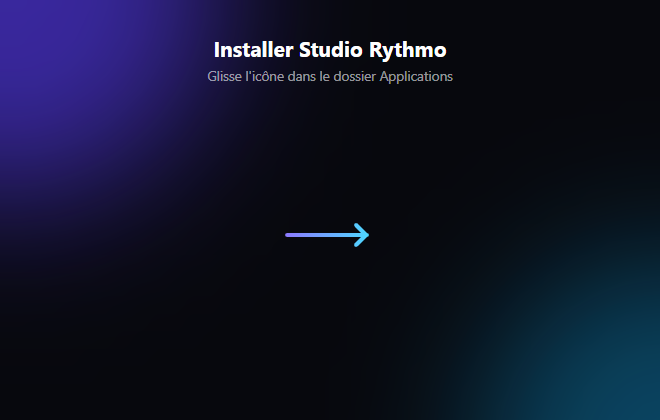
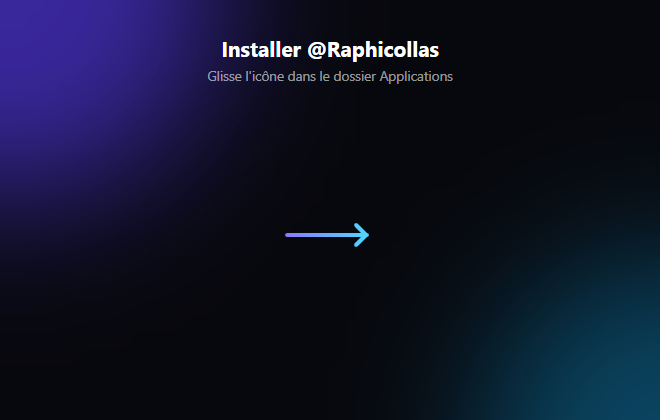
L'appli s'appelle @Raphicollas
Nom affiché partout (menu, fenêtre, présentation, installateurs, fond
« Photo @Raphicollas »), DMG Raphicollas-Mac.dmg. Nom entre guillemets dans
le workflow (une valeur YAML ne peut pas commencer par « @ »). Les dossiers
de données gardent leur nom : rien à réinstaller.

Claude-Session: https://claude.ai/code/session_01S9e5F9UWUUD9CYD4chYH6B

Changed region(s): [[0.303, 0.0929, 0.697, 0.1548]]

diff --git a/launcher/setup.html b/launcher/setup.html
@@ -2,7 +2,7 @@
 <html lang="fr">
 <head>
 <meta charset="utf-8">
-<title>Installer Studio Rythmo</title>
+<title>Installer @Raphicollas</title>
 <style>
   :root { --text:#f3f4f8; --muted:rgba(243,244,248,.62); --faint:rgba(243,244,248,.36); --line:rgba(255,255,255,.12);
     --accent:#8b7bff; --accent2:#4fd6ff; --ok:#4ade9a; --bad:#ff6b81; }
@@ -82,7 +82,7 @@
 <div class="wrap">
   <div class="brand">
     <svg viewBox="0 0 64 64"><defs><linearGradient id="g" x1="0" y1="0" x2="1" y2="1"><stop offset="0" stop-color="#b4a9ff"/><stop offset=".5" stop-color="#8b7bff"/><stop offset="1" stop-color="#4fd6ff"/></linearGradient></defs><rect width="64" height="64" rx="16" fill="#0d0e16"/><rect x="1" y="1" width="62" height="62" rx="15" fill="none" stroke="url(#g)" stroke-opacity=".5" stroke-width="2"/><g fill="url(#g)"><rect x="13" y="26" width="5" height="12" rx="2.5"/><rect x="21" y="19" width="5" height="26" rx="2.5"/><rect x="29" y="23" width="5" height="18" rx="2.5"/></g><path d="M39 22l13 10-13 10z" fill="url(#g)"/></svg>
-    <span id="brand-text">Installation de Studio Rythmo</span>
+    <span id="brand-text">Installation de @Raphicollas</span>
     <div class="dots" id="dots"><i class="on"></i><i></i><i></i><i></i></div>
   </div>
 
@@ -137,15 +137,15 @@
   <!-- 4. Terminé -->
   <section class="page" id="p-done">
     <div class="check"><svg viewBox="0 0 24 24" fill="none" stroke="#4ade9a" stroke-width="2.5" stroke-linecap="round" stroke-linejoin="round"><path d="M5 12.5l4.5 4.5L19 7.5"/></svg></div>
-    <h1 style="margin-top:18px">Studio Rythmo est installé</h1>
+    <h1 style="margin-top:18px">@Raphicollas est installé</h1>
     <p class="lede">Retrouve-le sur le Bureau et dans le menu Démarrer.</p>
     <div class="bar"><span class="sp"></span><button class="link" data-act="close">Fermer</button>
-      <button class="primary" data-act="launch">Lancer Studio Rythmo</button></div>
+      <button class="primary" data-act="launch">Lancer @Raphicollas</button></div>
   </section>
 
   <!-- Désinstallation -->
   <section class="page" id="p-uninstall">
-    <h1>Désinstaller Studio Rythmo ?</h1>
+    <h1>Désinstaller @Raphicollas ?</h1>
     <p class="lede">L'application, ses raccourcis et le moteur seront retirés de cet ordinateur.</p>
     <div class="card">
       <label class="toggle"><span>Supprimer aussi mes vidéos et mes réglages<small>Studio, bibliothèque, prises de voix</small></span>
@@ -157,7 +157,7 @@
   </section>
   <section class="page" id="p-uninstalled">
     <div class="check"><svg viewBox="0 0 24 24" fill="none" stroke="#4ade9a" stroke-width="2.5" stroke-linecap="round" stroke-linejoin="round"><path d="M5 12.5l4.5 4.5L19 7.5"/></svg></div>
-    <h1 style="margin-top:18px">Studio Rythmo a été désinstallé</h1>
+    <h1 style="margin-top:18px">@Raphicollas a été désinstallé</h1>
     <p class="lede" id="kept"></p>
     <div class="bar"><span class="sp"></span><button class="primary" data-act="close">Fermer</button></div>
   </section>
@@ -182,7 +182,7 @@
   window.init = (info) => {
     $("#dir").textContent = info.dir;
     $("#version").textContent = "Version " + info.version;
-    if (info.uninstall) { $("#brand-text").textContent = "Studio Rythmo"; go("p-uninstall"); }
+    if (info.uninstall) { $("#brand-text").textContent = "@Raphicollas"; go("p-uninstall"); }
   };
   window.setDir = (dir) => { $("#dir").textContent = dir; };
   window.setStep = (label) => { $("#now").textContent = label; const i = STEPS.indexOf(label); if (i > reached) { reached = i; steps(); } };

diff --git a/web/index.html b/web/index.html
@@ -6,8 +6,8 @@
 <meta name="theme-color" content="#07080d">
 <meta name="apple-mobile-web-app-capable" content="yes">
 <meta name="apple-mobile-web-app-status-bar-style" content="black-translucent">
-<meta name="apple-mobile-web-app-title" content="Studio Rythmo">
-<title>Studio Rythmo</title>
+<meta name="apple-mobile-web-app-title" content="@Raphicollas">
+<title>@Raphicollas</title>
 <link rel="manifest" href="/manifest.webmanifest">
 <link rel="icon" href="/icon.svg">
 <link rel="apple-touch-icon" href="/icon.svg">
@@ -20,7 +20,7 @@
 
 <div class="app">
   <header class="top">
-    <div class="brand"><img src="/icon.svg" alt="">Studio Rythmo</div>
+    <div class="brand"><img src="/icon.svg" alt="">@Raphicollas</div>
     <div class="top-right">
       <button class="btn small primary hidden" id="upd-go">Mettre à jour</button>
       <span class="pill" id="sys"><span class="dot"></span>Connexion…</span>
@@ -164,7 +164,7 @@
           <div class="screen"><video id="st-video" playsinline preload="auto"></video>
             <div class="countdown hidden" id="st-cd"><b></b><div class="cd-bar"><i></i></div></div>
             <div class="intro hidden" id="st-intro">
-              <div class="intro-logo"><img src="/icon.svg" alt=""><strong>Studio Rythmo</strong><span>Doublage</span></div>
+              <div class="intro-logo"><img src="/icon.svg" alt=""><strong>@Raphicollas</strong><span>Doublage</span></div>
               <div class="intro-cast hidden"><h2></h2><div class="cast"></div></div>
             </div>
             <div class="rec-dot hidden" id="st-rec"><i></i>REC</div>
@@ -294,7 +294,7 @@
     <div class="glass card">
       <h2>Fond d'écran</h2>
       <label class="field"><span>Fond</span><select id="bg-mode">
-        <option value="aurora">Dégradé de couleurs</option><option value="studio">Photo Studio Rythmo</option><option value="photo">Ma photo</option></select></label>
+        <option value="aurora">Dégradé de couleurs</option><option value="studio">Photo @Raphicollas</option><option value="photo">Ma photo</option></select></label>
       <div class="bg-row"><div class="bg-preview" id="bg-preview"></div>
         <div class="btns"><label class="btn small">Choisir une photo<input type="file" id="bg-file" accept="image/*" hidden></label>
         <button class="btn small ghost" id="bg-remove">Retirer</button></div></div>
@@ -326,7 +326,7 @@
 </div>
 
 <nav class="tabs glass">
-  <div class="nav-brand"><img src="/icon.svg" alt="">Studio Rythmo</div>
+  <div class="nav-brand"><img src="/icon.svg" alt="">@Raphicollas</div>
   <button class="on" data-view="v-dub"><svg viewBox="0 0 24 24" fill="none" stroke="currentColor" stroke-width="1.8" stroke-linecap="round"><path d="M12 3v18M7 8v8M17 6v12M2 11v2M22 10v4"/></svg>Doubler</button>
   <button data-view="v-studio"><svg viewBox="0 0 24 24" fill="none" stroke="currentColor" stroke-width="1.8" stroke-linecap="round"><rect x="9" y="3" width="6" height="11" rx="3"/><path d="M5 11a7 7 0 0014 0M12 18v3"/></svg>Studio</button>
   <button data-view="v-lib"><svg viewBox="0 0 24 24" fill="none" stroke="currentColor" stroke-width="1.8" stroke-linejoin="round"><rect x="3" y="4" width="18" height="16" rx="3"/><path d="M10 9.5v5l4-2.5z" fill="currentColor"/></svg>Bibliothèque</button>

diff --git a/web/setup.js b/web/setup.js
@@ -91,7 +91,7 @@
       <label class="toggle" style="margin-top:8px"><span>Accès depuis partout<small>4G, travail… via un tunnel Cloudflare gratuit et sécurisé</small></span>
         <span class="switch"><input type="checkbox" data-act="remote" ${setup.remote_access ? "checked" : ""}><i></i></span></label>
       ${setup.remote_access ? (t.url ? `<div class="qr" data-qr="remote"></div><div class="url">${t.url}</div>
-          <p class="hint" style="text-align:center;margin-top:4px">L'adresse change à chaque démarrage de Studio Rythmo.</p>`
+          <p class="hint" style="text-align:center;margin-top:4px">L'adresse change à chaque démarrage de @Raphicollas.</p>`
         : `<div class="status"><span class="dot warn"></span>${t.error ? esc(t.error) : (t.status || "Ouverture…")}</div>`) : ""}
       ${setup.password ? `<div class="sub" style="text-align:center"><small style="color:var(--muted)">Mot de passe à entrer sur le téléphone</small><div class="url" style="font-size:17px">${esc(setup.password)}</div></div>` : ""}
       <p class="hint" style="margin-top:10px">Astuce : sur le téléphone, « Partager → Sur l'écran d'accueil » pour l'avoir comme une appli.</p>`;
@@ -111,7 +111,7 @@
   const STEPS = [
     (b) => {
       b.innerHTML = `<h1>Bienvenue 👋</h1>
-        <p class="lede">Studio Rythmo traduit et double tes vidéos, depuis ce PC ou ton téléphone. Trois réglages rapides et c'est prêt.</p>
+        <p class="lede">@Raphicollas traduit et double tes vidéos, depuis ce PC ou ton téléphone. Trois réglages rapides et c'est prêt.</p>
         <div class="choices">
           <div class="choice"><span class="ic">🎬</span><span><b>Une vidéo ou un lien YouTube</b><small>Tu choisis la langue, l'appli fait le reste.</small></span></div>
           <div class="choice"><span class="ic">🎙</span><span><b>Nouvelle voix + sous-titres</b><small>La musique d'origine est gardée.</small></span></div>

diff --git a/web/app.js b/web/app.js
@@ -534,13 +534,13 @@ async function applyUpdate() {
     let r = null;
     try { r = await fetch("/api/update", { cache: "no-store" }).then((x) => x.ok ? x.json() : null); } catch {}
     if (r && r.step === "error") { msg.textContent = "La mise à jour a échoué : " + r.error; setTimeout(() => veil.classList.add("hidden"), 6000); return; }
-    if (r && r.step === "manual") { msg.textContent = "Mise à jour installée. Ferme puis rouvre Studio Rythmo pour l'utiliser."; return; }
+    if (r && r.step === "manual") { msg.textContent = "Mise à jour installée. Ferme puis rouvre @Raphicollas pour l'utiliser."; return; }
     // le nouveau moteur répond « idle » ; l'ancien, qui a déjà le nouveau fichier VERSION, dit « restart »
     if (r && r.current === target && r.step === "idle") { msg.textContent = "C'est fait, ouverture…"; location.replace("/?v=" + encodeURIComponent(target)); return; }
     if (r && r.step === "install") msg.textContent = "Installation…";
     else if (!r) msg.textContent = Date.now() - started > 60000
       ? "Redémarrage… s'il faut installer de nouveaux outils, ça peut prendre quelques minutes."
-      : "Redémarrage de Studio Rythmo…";
+      : "Redémarrage de @Raphicollas…";
     setTimeout(tick, 1500);
   };
   setTimeout(tick, 1500);
@@ -549,7 +549,7 @@ async function applyUpdate() {
 $("#upd-go").addEventListener("click", applyUpdate);
 $("#upd-check").addEventListener("click", async () => {
   const u = await checkUpdate(true);
-  if (!u.newer) toast(u.error && !u.latest ? u.error : "Studio Rythmo est à jour");
+  if (!u.newer) toast(u.error && !u.latest ? u.error : "@Raphicollas est à jour");
 });
 
 // ---------------------------------------------------------------- fond d'écran (Réglages)

diff --git a/web/studio.js b/web/studio.js
@@ -198,7 +198,7 @@
     renderAll();
     const secure = window.isSecureContext && navigator.mediaDevices && window.MediaRecorder;
     $("#st-mic-warn").classList.toggle("hidden", !!secure);
-    $("#st-mic-warn").textContent = secure ? "" : "Le micro du navigateur demande une adresse sécurisée (https). Sur le téléphone, ouvre Studio Rythmo avec l'adresse « Accès depuis partout » (Réglages → Téléphone).";
+    $("#st-mic-warn").textContent = secure ? "" : "Le micro du navigateur demande une adresse sécurisée (https). Sur le téléphone, ouvre @Raphicollas avec l'adresse « Accès depuis partout » (Réglages → Téléphone).";
     $("#st-sp-warn").classList.toggle("hidden", !proj.speakers_error);
     $("#st-sp-warn").textContent = proj.speakers_error || "";
     sepInfo();
@@ -528,7 +528,7 @@
       stream = stream && stream.active ? stream : await navigator.mediaDevices.getUserMedia({
         audio: { echoCancellation: true, noiseSuppression: true, autoGainControl: true, channelCount: 1 } });
     } catch {
-      if (window.pywebview && confirm("Le micro n'est pas accessible dans cette fenêtre. Ouvrir Studio Rythmo dans ton navigateur pour enregistrer ?")) {
+      if (window.pywebview && confirm("Le micro n'est pas accessible dans cette fenêtre. Ouvrir @Raphicollas dans ton navigateur pour enregistrer ?")) {
         window.pywebview.api.open_browser();
         return;
       }

diff --git a/launcher/splash.html b/launcher/splash.html
@@ -2,7 +2,7 @@
 <html lang="fr">
 <head>
 <meta charset="utf-8">
-<title>Studio Rythmo</title>
+<title>@Raphicollas</title>
 <style>
   :root { --text:#f3f4f8; --muted:rgba(243,244,248,.6); --faint:rgba(243,244,248,.35); --accent:#8b7bff; --accent2:#4fd6ff; --bad:#ff6b81; }
   * { box-sizing: border-box; }
@@ -48,7 +48,7 @@
 <main>
   <div class="card">
     <svg class="logo" viewBox="0 0 64 64"><defs><linearGradient id="g" x1="0" y1="0" x2="1" y2="1"><stop offset="0" stop-color="#b4a9ff"/><stop offset=".5" stop-color="#8b7bff"/><stop offset="1" stop-color="#4fd6ff"/></linearGradient></defs><rect width="64" height="64" rx="16" fill="#0d0e16"/><rect x="1" y="1" width="62" height="62" rx="15" fill="none" stroke="url(#g)" stroke-opacity=".5" stroke-width="2"/><g fill="url(#g)"><rect x="13" y="26" width="5" height="12" rx="2.5"/><rect x="21" y="19" width="5" height="26" rx="2.5"/><rect x="29" y="23" width="5" height="18" rx="2.5"/></g><path d="M39 22l13 10-13 10z" fill="url(#g)"/></svg>
-    <h1>Studio Rythmo</h1>
+    <h1>@Raphicollas</h1>
     <p class="sub" id="sub">Démarrage…</p>
     <div class="progress" id="bar"><div></div></div>
     <div class="step" id="step"></div>

diff --git a/web/login.html b/web/login.html
@@ -6,7 +6,7 @@
 <meta name="theme-color" content="#07080d">
 <meta name="apple-mobile-web-app-capable" content="yes">
 <meta name="apple-mobile-web-app-status-bar-style" content="black-translucent">
-<title>Studio Rythmo</title>
+<title>@Raphicollas</title>
 <link rel="manifest" href="/manifest.webmanifest">
 <link rel="icon" href="/icon.svg">
 <link rel="apple-touch-icon" href="/icon.svg">
@@ -17,7 +17,7 @@
 <main class="login">
   <form class="glass card" id="form">
     <img src="/icon.svg" alt="">
-    <h1>Studio Rythmo</h1>
+    <h1>@Raphicollas</h1>
     <p>Entre le mot de passe affiché sur ton PC.</p>
     <label class="field"><input type="password" id="pw" placeholder="Mot de passe" autocomplete="current-password" autofocus required></label>
     <button class="btn primary" type="submit">Entrer</button>

diff --git a/launcher/doublage_launcher.py b/launcher/doublage_launcher.py
@@ -1,7 +1,7 @@
-"""Studio Rythmo — l'application à double-cliquer (Windows .exe, Mac .app).
+"""@Raphicollas — l'application à double-cliquer (Windows .exe, Mac .app).
 
-Studio Rythmo s'ouvre dans sa propre fenêtre (pywebview : Edge WebView2 sur Windows, WebKit sur Mac).
-Sans pywebview, une petite fenêtre simple prend le relais et Studio Rythmo s'ouvre dans le navigateur.
+@Raphicollas s'ouvre dans sa propre fenêtre (pywebview : Edge WebView2 sur Windows, WebKit sur Mac).
+Sans pywebview, une petite fenêtre simple prend le relais et @Raphicollas s'ouvre dans le navigateur.
 
 Elle contient le code de l'appli et l'outil `uv`. Au premier lancement, elle copie l'appli dans le dossier
 de l'utilisateur et installe tout (Python, modèles…) en montrant la progression. Ensuite elle démarre le moteur
@@ -22,7 +22,7 @@ import urllib.request
 import webbrowser
 from pathlib import Path
 
-APP = "Studio Rythmo"
+APP = "@Raphicollas"
 APP_DIR = "JoueTaReplique"  # nom des dossiers et fichiers : sans espace ni accent
 PORT = 8765
 RESTART = 75  # code de sortie du moteur après « Mettre à jour » (updater.py) : on le relance
@@ -155,9 +155,9 @@ class Engine:
             if self.install_only and code == 0:
                 self.events.put(("done", None))
             elif code not in (0, None) and not getattr(self, "stopping", False):
-                self.events.put(("error", f"Studio Rythmo s'est arrêté (code {code}). Le détail est dans {self.log}"))
+                self.events.put(("error", f"@Raphicollas s'est arrêté (code {code}). Le détail est dans {self.log}"))
         except Exception as exc:
-            self.events.put(("error", f"Impossible de démarrer Studio Rythmo : {exc}"))
+            self.events.put(("error", f"Impossible de démarrer @Raphicollas : {exc}"))
 
     def _launch(self, env: dict) -> int:
             self.proc = subprocess.Popen(
@@ -283,18 +283,18 @@ def run_window():
         webbrowser.open(URL)
 
     def quit_app():
-        status.configure(text="Arrêt de Studio Rythmo…")
+        status.configure(text="Arrêt de @Raphicollas…")
         root.update()
         engine.stop()
         root.destroy()
 
-    open_btn = button(buttons, "Ouvrir Studio Rythmo", open_app, primary=True)
+    open_btn = button(buttons, "Ouvrir @Raphicollas", open_app, primary=True)
     quit_btn = button(buttons, "Quitter", quit_app)
     quit_btn.pack(side="right")
     root.protocol("WM_DELETE_WINDOW", quit_app)
 
     if state["first"]:
-        status.configure(text="Première ouverture : installation de Studio Rythmo.\nCompte 10 à 20 minutes, une seule fois. "
+        status.configure(text="Première ouverture : installation de @Raphicollas.\nCompte 10 à 20 minutes, une seule fois. "
                               "Laisse cette fenêtre ouverte.")
 
     def poll():
@@ -311,7 +311,7 @@ def run_window():
                     state["ready"] = True
                     bar.stop()
                     bar.configure(mode="determinate", value=100)
-                    status.configure(text="Studio Rythmo est prêt. Garde cette fenêtre ouverte (tu peux la réduire).", fg=TEXT)
+                    status.configure(text="@Raphicollas est prêt. Garde cette fenêtre ouverte (tu peux la réduire).", fg=TEXT)
                     lines = []
                     if engine.lan:
                         lines.append(f"Sur ton téléphone (même Wi-Fi) : {engine.lan}")

diff --git a/launcher/setup_app.py b/launcher/setup_app.py
@@ -1,4 +1,4 @@
-"""Installateur et désinstallateur Windows de Studio Rythmo, aux couleurs de l'application.
+"""Installateur et désinstallateur Windows de @Raphicollas, aux couleurs de l'application.
 
 JoueTaReplique-Setup.exe contient l'application (dossier `payload/JoueTaReplique`). L'installation :
 1. copie l'application dans le dossier choisi (par défaut %LOCALAPPDATA%\\Programs\\JoueTaReplique) ;
@@ -66,7 +66,7 @@ def shell_folder(name: str) -> Path:
         ctypes.windll.ole32.CoTaskMemFree(out)
 
 
-def shortcut(path: Path, target: Path, args: str = "", description: str = "Studio Rythmo"):
+def shortcut(path: Path, target: Path, args: str = "", description: str = "@Raphicollas"):
     """Raccourci .lnk. Les chemins passent par des variables d'environnement : accents, espaces et
     apostrophes arrivent intacts à PowerShell, sans aucun échappement."""
     path.parent.mkdir(parents=True, exist_ok=True)
@@ -86,7 +86,7 @@ def register(install_dir: Path, size_mb: int):
     import winreg
     exe = install_dir / "JoueTaReplique.exe"
     with winreg.CreateKey(winreg.HKEY_CURRENT_USER, UNINSTALL_KEY) as key:
-        for name, value in {"DisplayName": "Studio Rythmo", "DisplayVersion": version(), "Publisher": "Studio Rythmo",
+        for name, value in {"DisplayName": "@Raphicollas", "DisplayVersion": version(), "Publisher": "@Raphicollas",
                             "DisplayIcon": f"{exe},0", "InstallLocation": str(install_dir),
                             "UninstallString": f'"{exe}" --uninstall', "QuietUninstallString": f'"{exe}" --uninstall'}.items():
             winreg.SetValueEx(key, name, 0, winreg.REG_SZ, value)
@@ -164,7 +164,7 @@ def run(uninstall: bool = False):
             for wanted, folder in (("desktop", "Desktop"), ("startmenu", "Programs")):
                 if options.get(wanted):
                     try:
-                        shortcut(shell_folder(folder) / "Studio Rythmo.lnk", exe)
+                        shortcut(shell_folder(folder) / "@Raphicollas.lnk", exe)
                     except Exception as exc:  # l'appli reste installée, on le signale seulement
                         js("setLog", f"Raccourci non créé : {exc}")
             size = sum(f.stat().st_size for f in target.rglob("*") if f.is_file()) // (1 << 20)
@@ -194,7 +194,7 @@ def run(uninstall: bool = False):
         try:
             stop_running()
             target = installed_dir() or Path(sys.executable).parent
-            for link in (shell_folder("Desktop") / "Studio Rythmo.lnk", shell_folder("Programs") / "Studio Rythmo.lnk"):
+            for link in (shell_folder("Desktop") / "@Raphicollas.lnk", shell_folder("Programs") / "@Raphicollas.lnk"):
                 link.unlink(missing_ok=True)
             data = L.home()
             if purge:
@@ -216,7 +216,7 @@ def run(uninstall: bool = False):
         except Exception as exc:
             js("setUninstallError", f"La désinstallation a échoué : {exc}")
 
-    window = webview.create_window("Désinstaller Studio Rythmo" if uninstall else "Installer Studio Rythmo", html=html,
+    window = webview.create_window("Désinstaller @Raphicollas" if uninstall else "Installer @Raphicollas", html=html,
                                    js_api=Api(), width=640, height=580, resizable=False, background_color="#07080d")
     state["window"] = window
     window.events.closing += lambda: state["engine"] and state["engine"].stop()

diff --git a/launcher/build.py b/launcher/build.py
@@ -1,4 +1,4 @@
-"""Construit l'application Studio Rythmo (Windows .exe ou Mac .app) avec PyInstaller.
+"""Construit l'application @Raphicollas (Windows .exe ou Mac .app) avec PyInstaller.
 
     python launcher/build.py
 
@@ -84,19 +84,19 @@ def main():
     if sys.platform == "darwin":  # le micro du Studio : macOS exige une phrase d'explication
         import plistlib
         built = ROOT / "dist" / "JoueTaReplique.app"
-        app_path = ROOT / "dist" / "Studio Rythmo.app"  # le nom que montre le Finder
+        app_path = ROOT / "dist" / "@Raphicollas.app"  # le nom que montre le Finder
         shutil.rmtree(app_path, ignore_errors=True)
         built.rename(app_path)
         plist = app_path / "Contents" / "Info.plist"
         info = plistlib.loads(plist.read_bytes())
-        info.update({"NSMicrophoneUsageDescription": "Studio Rythmo enregistre ta voix dans le Studio.",
-                     "CFBundleDisplayName": "Studio Rythmo", "CFBundleName": "Studio Rythmo", "CFBundleShortVersionString": version.lstrip("v"),
+        info.update({"NSMicrophoneUsageDescription": "@Raphicollas enregistre ta voix dans le Studio.",
+                     "CFBundleDisplayName": "@Raphicollas", "CFBundleName": "@Raphicollas", "CFBundleShortVersionString": version.lstrip("v"),
                      "NSHighResolutionCapable": True, "LSMinimumSystemVersion": "11.0"})
         plist.write_bytes(plistlib.dumps(info))
         subprocess.run(["codesign", "--force", "--deep", "--sign", "-", str(plist.parent.parent)], check=True)
     if sys.platform == "win32":  # JoueTaReplique-Setup.exe : un seul fichier qui contient l'application et l'installateur
         subprocess.run([sys.executable, "-m", "PyInstaller", "--noconfirm", "--clean", "--onefile", "--windowed",
-                        "--name", "StudioRythmo-Setup", "--icon", str(icon), "--distpath", str(ROOT / "dist"),
+                        "--name", "Raphicollas-Setup", "--icon", str(icon), "--distpath", str(ROOT / "dist"),
                         "--workpath", str(BUILD / "work-setup"), "--specpath", str(BUILD),
                         "--paths", str(ROOT / "launcher"),
                         "--add-data", f"{ROOT / 'dist' / 'JoueTaReplique'}{sep}payload/JoueTaReplique",

diff --git a/web.py b/web.py
@@ -1,4 +1,4 @@
-"""Studio Rythmo — application web (PC et smartphone) au-dessus du moteur VideoLingo.
+"""@Raphicollas — application web (PC et smartphone) au-dessus du moteur VideoLingo.
 
 Lancement : uv run start.py --web   (ou double-clic sur Lancer-JoueTaReplique.bat sous Windows)
 Ouvre ensuite http://localhost:8765 sur le PC, ou l'adresse affichée dans la console sur le téléphone.
@@ -61,7 +61,7 @@ def session_token() -> str:
     return hmac.new(password().encode(), b"doublage-session-v1", hashlib.sha256).hexdigest()
 
 
-app = FastAPI(title="Studio Rythmo", docs_url=None, redoc_url=None)
+app = FastAPI(title="@Raphicollas", docs_url=None, redoc_url=None)
 
 
 def is_local(request: Request) -> bool:
@@ -694,12 +694,12 @@ if __name__ == "__main__":
     for stream in (sys.stdout, sys.stderr):
         if hasattr(stream, "reconfigure"):
             stream.reconfigure(encoding="utf-8", errors="replace")
-    print("\n  Studio Rythmo est prêt — la page s'ouvre dans ton navigateur.")
+    print("\n  @Raphicollas est prêt — la page s'ouvre dans ton navigateur.")
     print(f"  Sur ce PC          : http://localhost:{PORT}")
     for address in local_addresses():
         print(f"  Téléphone (Wi-Fi)  : http://{address}:{PORT}")
     print(f"  Mot de passe       : {password()}  (demandé seulement depuis un autre appareil)")
-    print("  Laisse cette fenêtre ouverte tant que tu utilises Studio Rythmo.\n")
+    print("  Laisse cette fenêtre ouverte tant que tu utilises @Raphicollas.\n")
     if load_key_or("remote_access", False):
         start_tunnel()
     if not os.environ.get("DOUBLAGE_NO_BROWSER"):

diff --git a/start.py b/start.py
@@ -43,7 +43,7 @@ def main() -> int:
     parser = argparse.ArgumentParser(description="Install if needed, then start VideoLingo")
     mode = parser.add_mutually_exclusive_group()
     mode.add_argument("--api", action="store_true", help="start the local HTTP API instead of the web UI")
-    mode.add_argument("--web", action="store_true", help="start Studio Rythmo, the web app for PC and phone")
+    mode.add_argument("--web", action="store_true", help="start @Raphicollas, the web app for PC and phone")
     mode.add_argument("--voix", action="store_true", help="install the optional local voices (Kokoro, Chatterbox)")
     mode.add_argument("--streamlit", action="store_true", help="start the original VideoLingo interface (advanced settings)")
     mode.add_argument("--check", action="store_true", help="check the environment without installing or launching")
@@ -80,7 +80,7 @@ def main() -> int:
         return 1
 
     if args.install_only:
-        print("Studio Rythmo est installé.")
+        print("@Raphicollas est installé.")
         return 0
     if args.voix:
         command = ["installer_voix.py"]
@@ -88,7 +88,7 @@ def main() -> int:
         command = ["api.py"]
     elif args.streamlit:
         command = ["-m", "streamlit", "run", "st.py"]
-    else:  # Studio Rythmo : l'application web, par défaut
+    else:  # @Raphicollas : l'application web, par défaut
         command = ["web.py"]
     return subprocess.run([str(python), *command], cwd=ROOT).returncode
 
